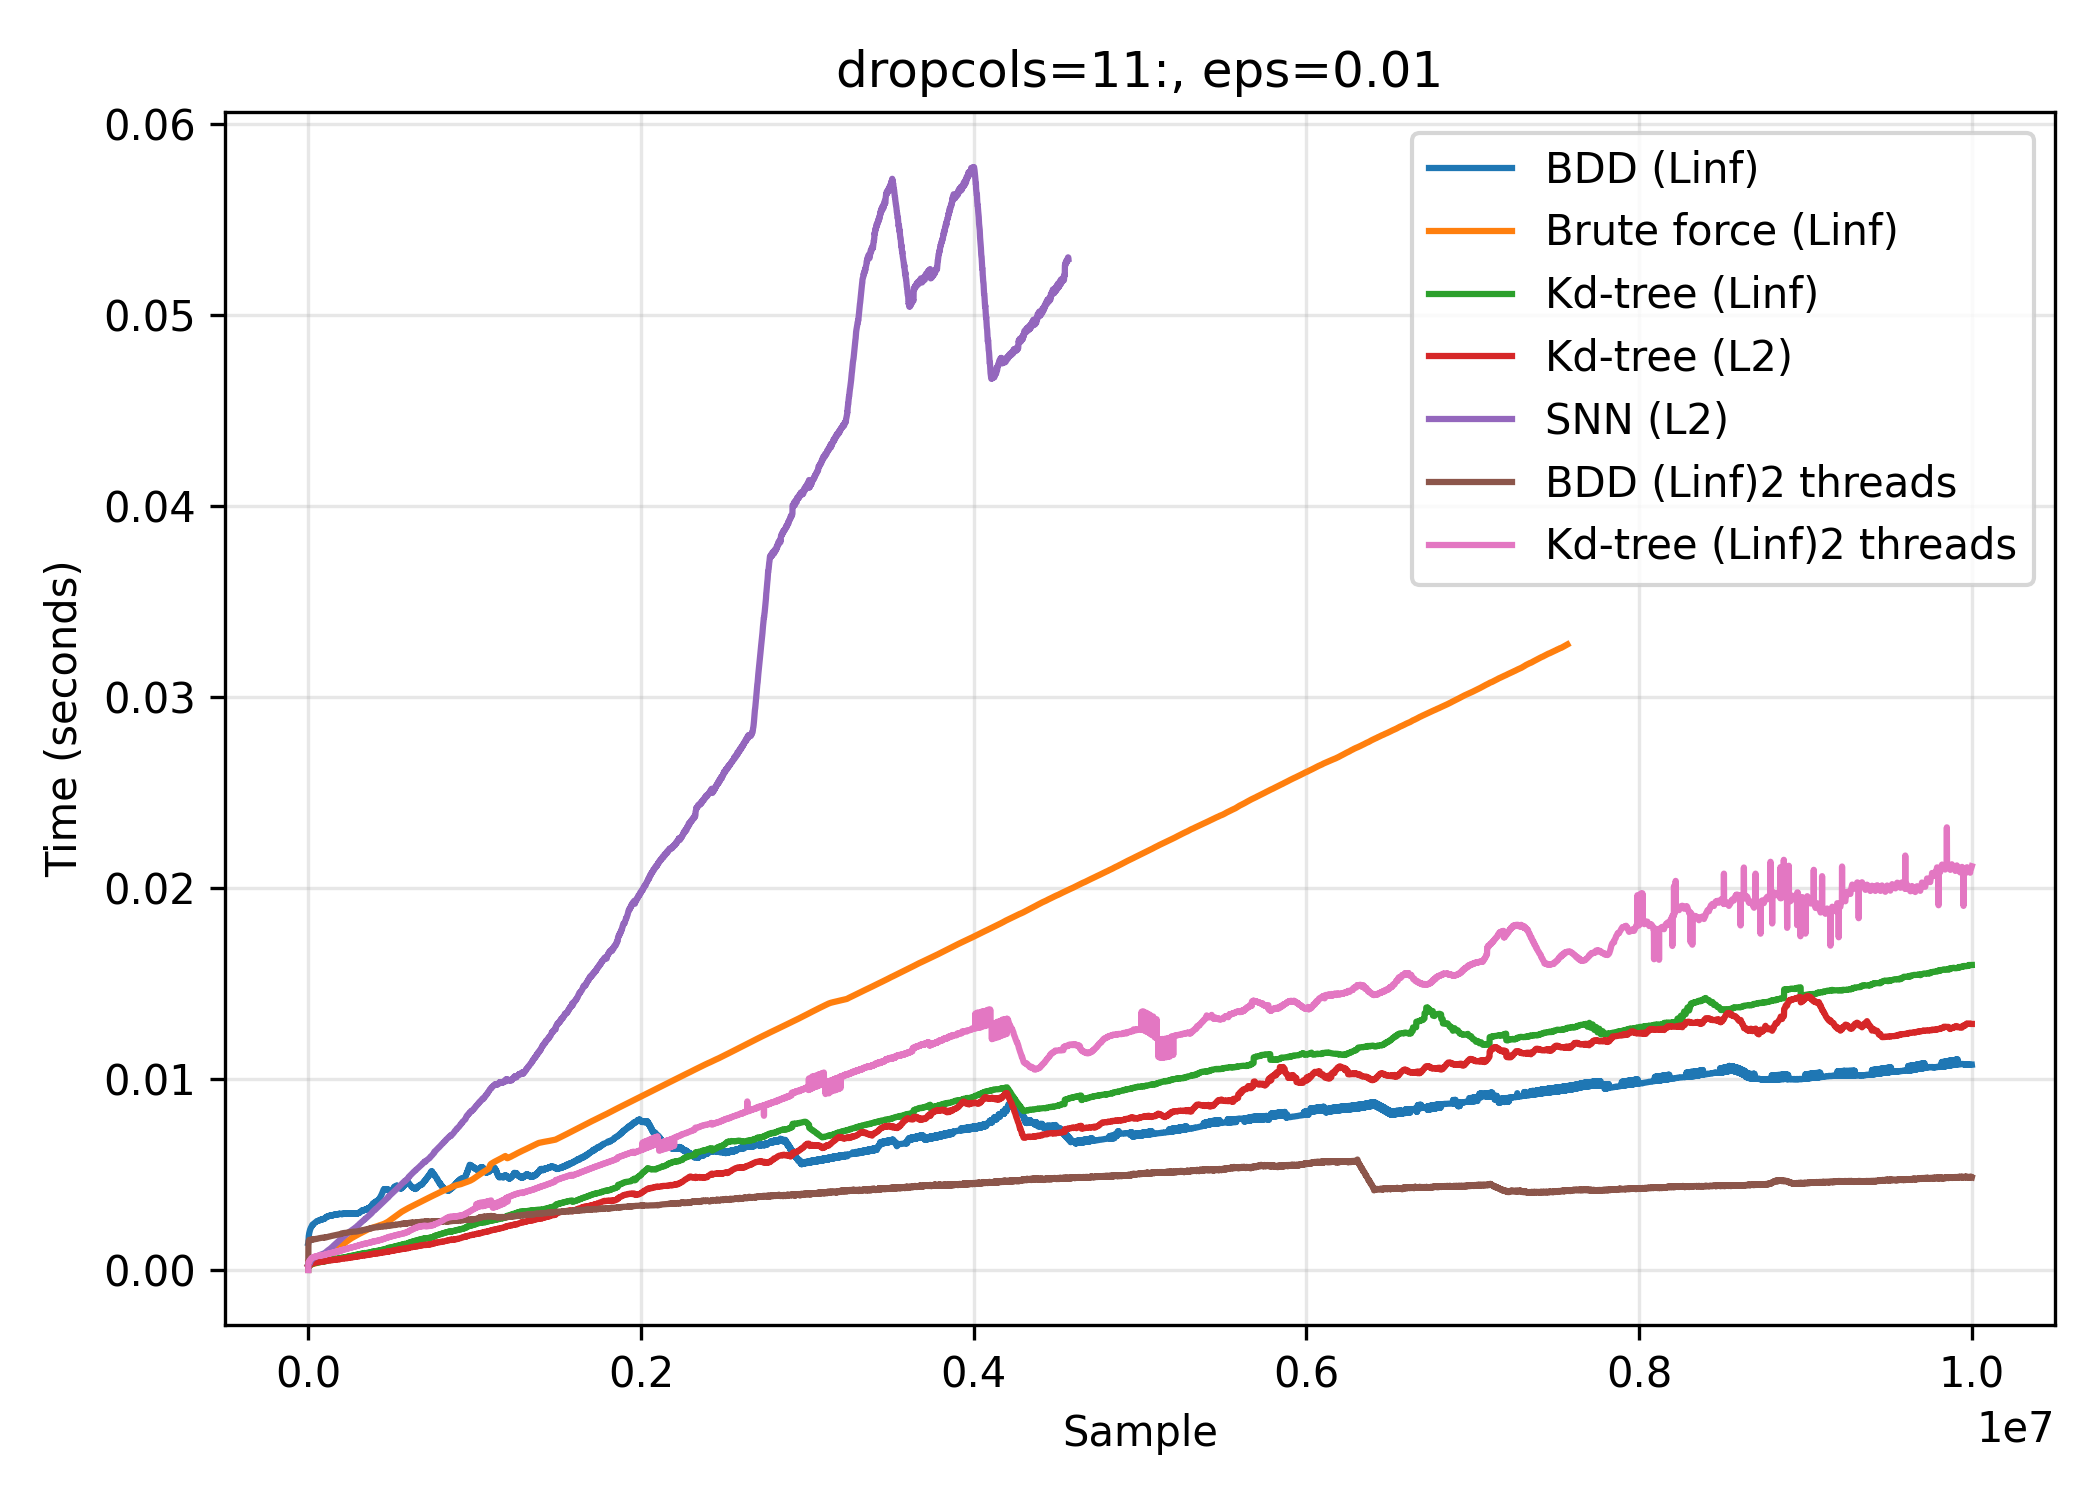
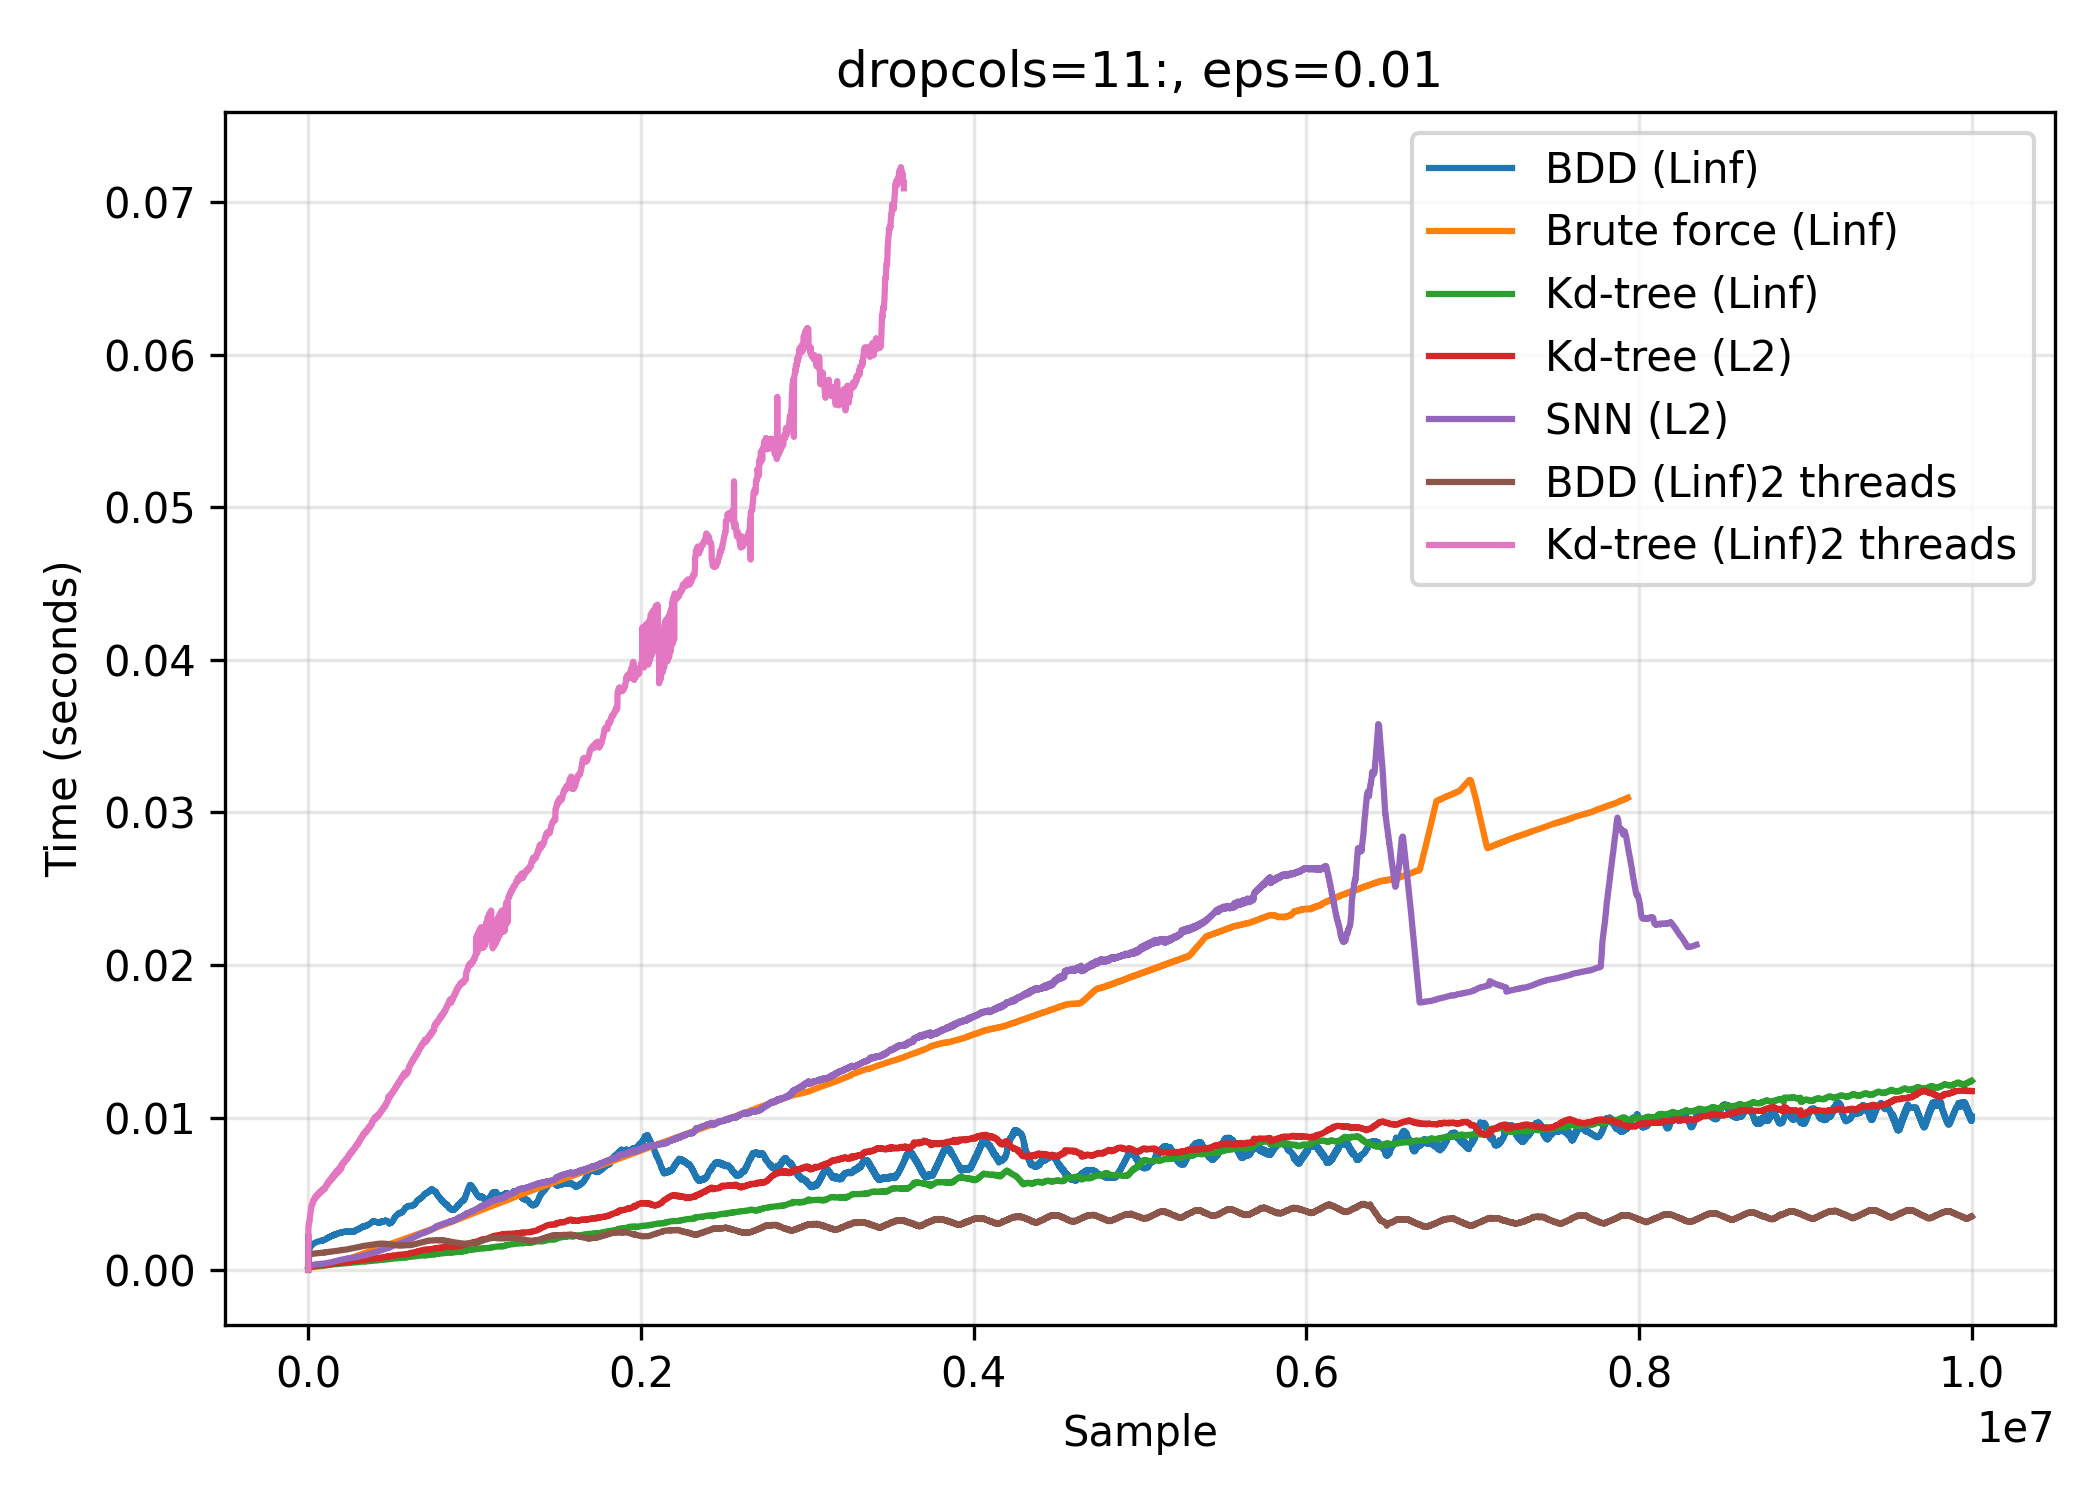
SNAPSHOT: samples perf run 2, randomized order

diff --git a/results/performance/plot.py b/results/performance/plot.py
@@ -25,12 +25,17 @@ def parse_args():
                        help='name of file to save to')
     parser.add_argument('--omit_beginning', type=int, default=100,
                        help='omit this many samples at the beginning (avoid startup cost going into rolling average)')
+    parser.add_argument('--run', type=int, default=1,
+                       help='-run$i postfix to use')
     return parser.parse_args()
 
 def parse_filename(filepath):
     filename = os.path.basename(filepath)
     method = os.path.basename(os.path.dirname(filepath))
-    norm, eps, parallelization, sample = filename.replace('.json', '').split('-')
+    if args.run == 1:
+        norm, eps, parallelization, sample = filename.replace('.json', '').split('-')
+    else:
+        norm, eps, parallelization, sample, run = filename.replace('.json', '').split('-')
     
     norm_displaynames = {
         "infinity": "Linf",
@@ -64,14 +69,17 @@ args = parse_args()
 # Read all JSON files
 data = []
 for filepath in glob.glob(os.path.join(args.results_dir, 'results/*/*.json')):
-    if args.eps in filepath and args.sample in filepath and 'run2' not in filepath:
-        with open(filepath, 'r') as f:
-            result = json.load(f)
-            file_info = parse_filename(filepath)
-            #if args.sample == "11:" and file_info['parallelization'] != '1':
-            #    continue
-            print("added", filepath, file=sys.stderr)
-            data.append({**file_info, 'timings': result['timings'][:args.truncate]})
+    if (args.run == 1 and 'run' in filepath) or (args.run > 1 and f'run{args.run}' not in filepath):
+        continue
+    if args.eps not in filepath or args.sample not in filepath:
+        continue
+    with open(filepath, 'r') as f:
+        print("adding", filepath, file=sys.stderr)
+        result = json.load(f)
+        file_info = parse_filename(filepath)
+        #if args.sample == "11:" and file_info['parallelization'] != '1':
+        #    continue
+        data.append({**file_info, 'timings': result['timings'][:args.truncate]})
 
 # Sort data by norm, batchsize, method
 data.sort(key=lambda x: (x['parallelization'], x['norm'], x['method']))
